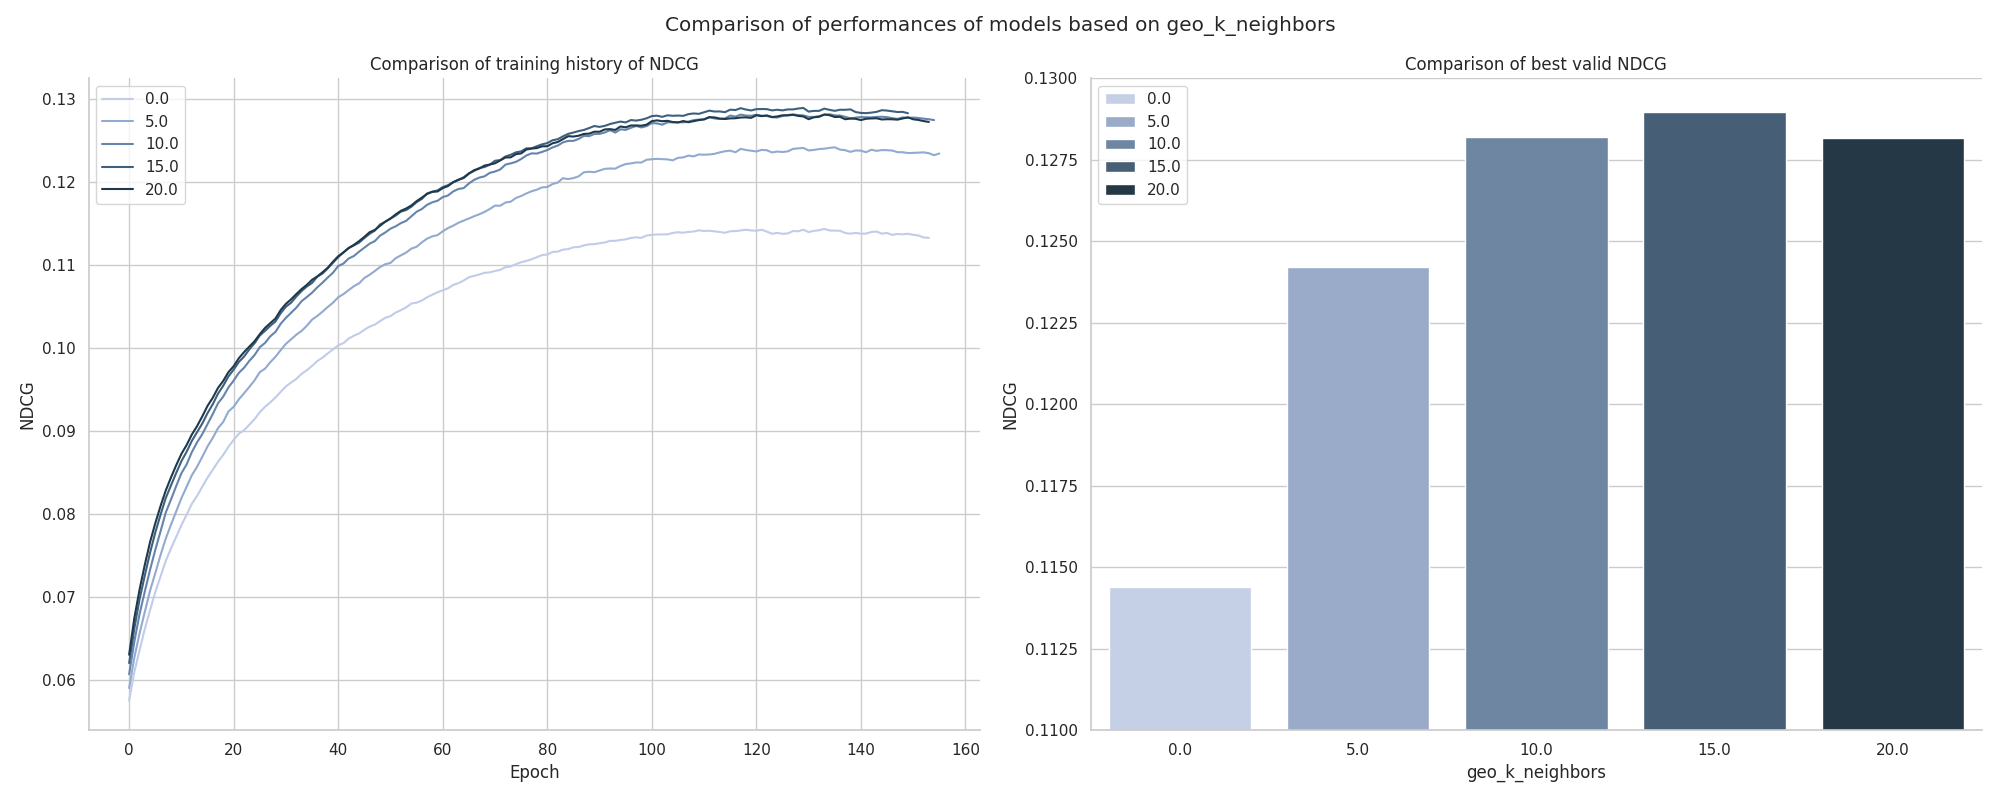
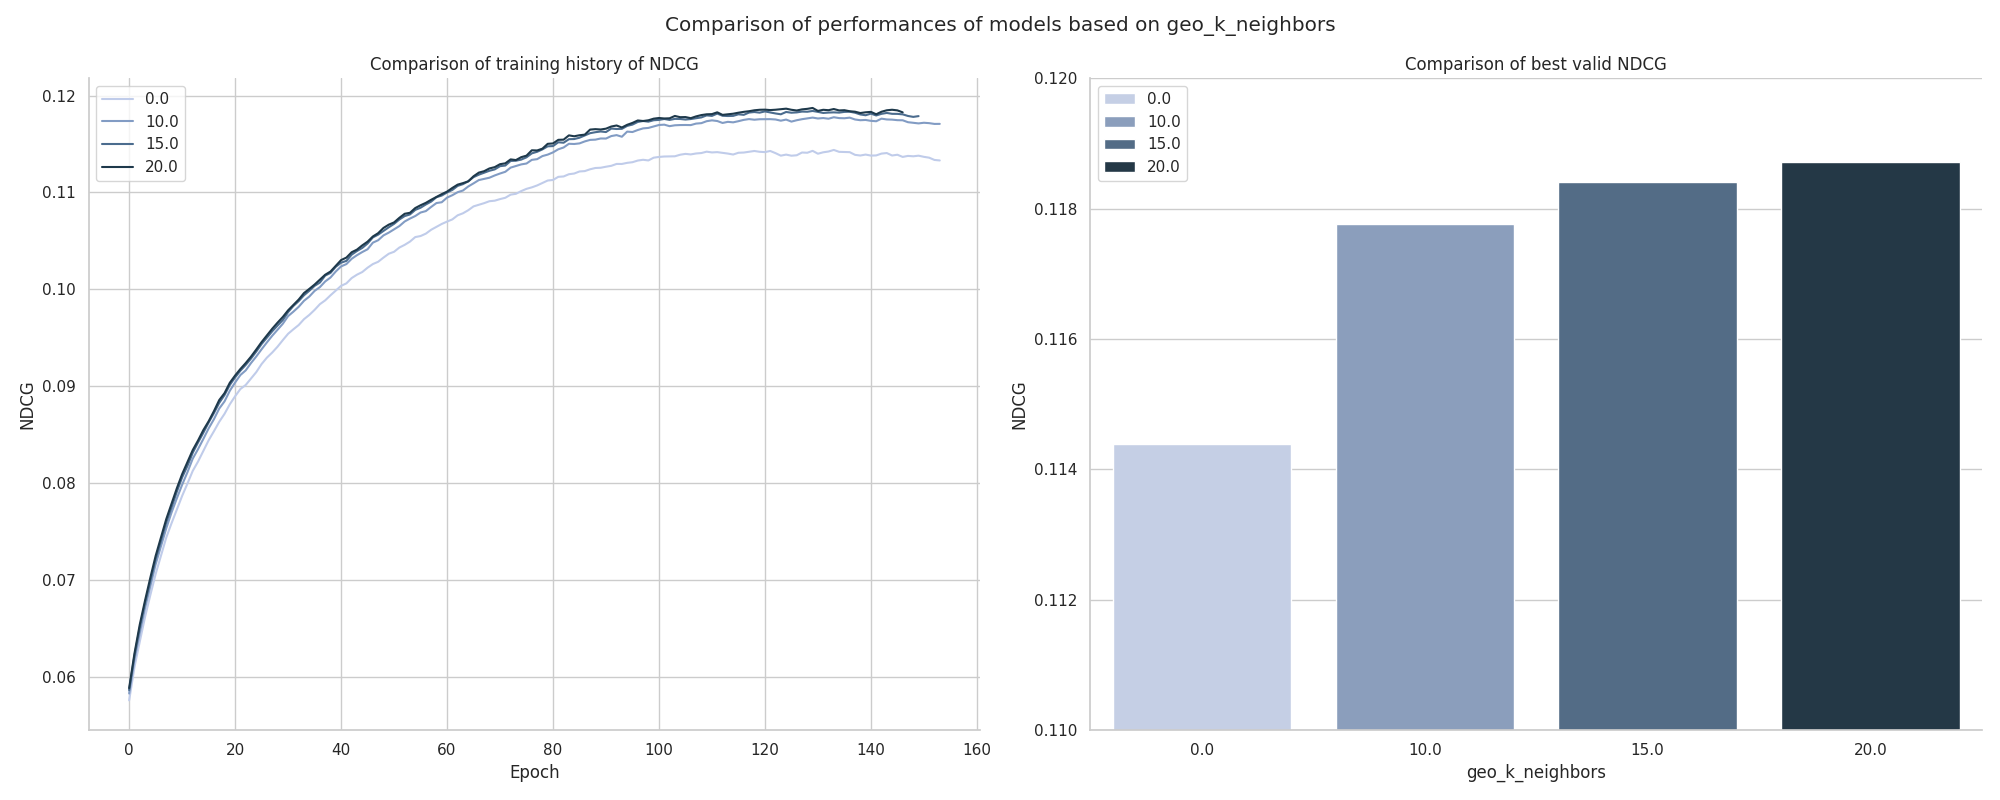
experiments with smaller weight on item-item edge

diff --git a/evaluation/compare_models.py b/evaluation/compare_models.py
@@ -106,7 +106,7 @@ def plot_comparisons_two_targets(names, targets, config_path, target_name=None, 
     results = []
     for name in names:
         cfg = load_hydra_config(name, config_path)
-        target = cfg[targets[0][0]][targets[0][1]]
+        target = cfg[targets[0][0]].get(targets[0][1], 0.0)
         sub_target = cfg[targets[1][0]].get(targets[1][1], 0.0)
 
         with open(f"../logs/{cfg.dataset.country}/{name}.json", "r") as f:
@@ -181,7 +181,7 @@ if __name__ == "__main__":
     ]
 
     targets = [["model", "n_layers"], ["model", "layer_decay"]]
-    plot_comparisons_two_targets(names, targets, config_path, target_name=None, sub_target_name=None)
+    plot_comparisons_two_targets(names, targets, config_path)
 
     names = [
         "emb_512_n_layers_6_reg_0.001_gentle_0.1_gcl",
@@ -200,7 +200,7 @@ if __name__ == "__main__":
         "emb_512_n_layers_8_reg_0.001_gentle_0.1_gcl",
     ]
     targets = [["model", "n_layers"], ["training", "gcl_reg"]]
-    plot_comparisons_two_targets(names, targets, config_path, target_name=None, sub_target_name=None)
+    plot_comparisons_two_targets(names, targets, config_path)
 
     names = [
         "emb_512_n_layers_3_reg_0.001_gentle_0.1_gcl",
@@ -220,7 +220,7 @@ if __name__ == "__main__":
         "emb_512_n_layers_4_reg_0.001_gentle_0.1_gcl"
     ]
     targets = [["model", "n_layers"], ["model", "layer_decay"]]
-    plot_comparisons_two_targets(names, targets, config_path, target_name=None, sub_target_name=None)
+    plot_comparisons_two_targets(names, targets, config_path)
 
     names = [
         "time_decay_0.001_0.1",
@@ -231,32 +231,35 @@ if __name__ == "__main__":
         "time_decay_0.0001_0.3",
     ]
     targets = [["model", "time_decay"], ["model", "time_min_weight"]]
-    plot_comparisons_two_targets(names, targets, config_path, target_name=None, sub_target_name=None)
+    plot_comparisons_two_targets(names, targets, config_path)
 
     names = [
         "baseline",
-        "geo_distance_20.0_1.0",
-        "geo_distance_20.0_1.5",
-        "geo_distance_20.0_2.0",
-        "geo_distance_20.0_3.0",
-        "geo_distance_20.0_4.0",
-        "geo_distance_20.0_5.0",
-        "geo_distance_20.0_6.0",
-        "geo_distance_20.0_7.0",
-        "geo_distance_20.0_8.0",
-    ]
-    targets = ["model", "geo_sigma"]
-    plot_comparisons_one_target(names, targets, config_path, target_name=None)
-
-    names = [
-        "baseline",
-        "geo_distance_5",
-        "geo_distance_10",
-        "geo_distance_15",
-        "geo_distance_20",
+        "geo_distance_neighbors_10_weight_0.1",
+        "geo_distance_neighbors_15_weight_0.1",
+        "geo_distance_neighbors_20_weight_0.1",
     ]
     targets = ["model", "geo_k_neighbors"]
-    plot_comparisons_one_target(names, targets, config_path, target_name=None)
+    plot_comparisons_one_target(names, targets, config_path)
+
+    names = [
+        "geo_distance_neighbors_10_weight_0.1",
+        "geo_distance_neighbors_10_weight_1.0",
+        "geo_distance_neighbors_15_weight_0.1",
+        "geo_distance_neighbors_15_weight_1.0",
+        "geo_distance_neighbors_20_weight_0.1",
+        "geo_distance_neighbors_20_weight_1.0",
+    ]
+    targets = [["model", "geo_k_neighbors"], ["model", "geo_weight"]]
+    plot_comparisons_two_targets(names, targets, config_path)
+
+    names = [
+        "baseline",
+        "geo_distance_threshold_5.0_weight_0.1",
+        "geo_distance_threshold_10.0_weight_0.1",
+    ]
+    targets = ["model", "geo_threshold"]
+    plot_comparisons_one_target(names, targets, config_path)
 
     names = [
         "emb_512_n_layers_6_reg_0.001_gentle_0.1_gcl",
@@ -267,7 +270,7 @@ if __name__ == "__main__":
         "emb_512_n_layers_8_reg_0.001_gentle_0.1_gcl_geo_distance_15",
     ]
     targets = [["model", "n_layers"], ["model", "geo_k_neighbors"]]
-    plot_comparisons_two_targets(names, targets, config_path, target_name=None, sub_target_name=None)
+    plot_comparisons_two_targets(names, targets, config_path)
 
     names = [
         "emb_512_n_layers_6_reg_0.001_gentle_0.1_gcl",
@@ -278,4 +281,4 @@ if __name__ == "__main__":
         "emb_512_n_layers_8_reg_0.001_gentle_0.1_gcl_geo_distance_20.0_8.0",
     ]
     targets = [["model", "n_layers"], ["model", "geo_threshold"]]
-    plot_comparisons_two_targets(names, targets, config_path, target_name=None, sub_target_name=None)
+    plot_comparisons_two_targets(names, targets, config_path)
